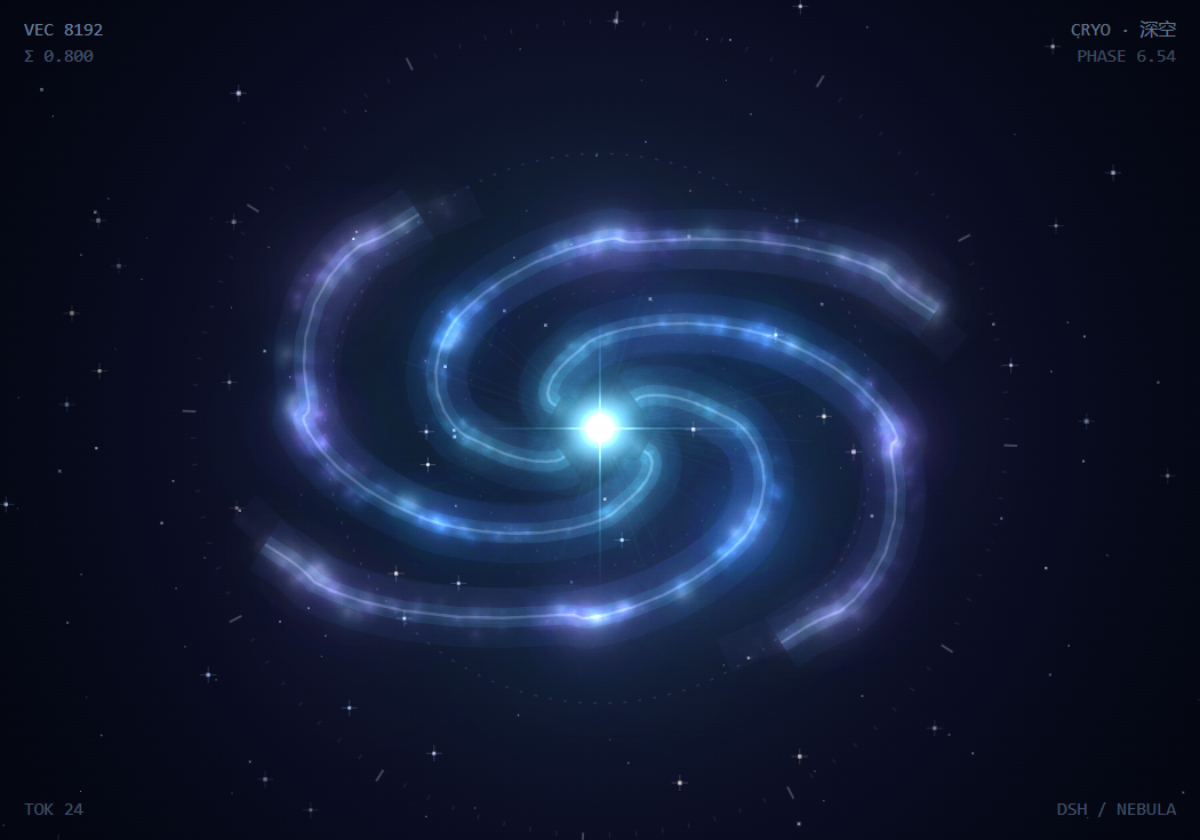
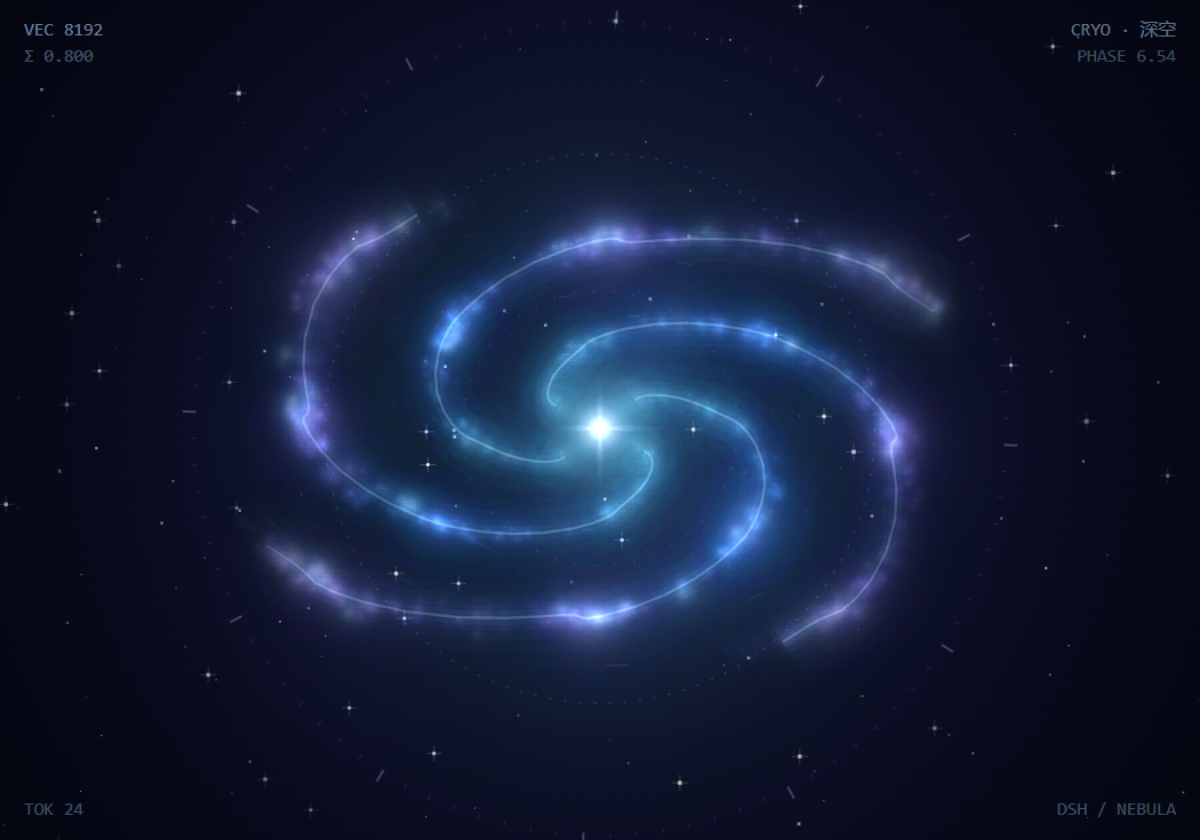
fix: soften the core light and the arm ribbons
The centre was a disc blown out to white with four straight diffraction
spikes reaching across the frame, and the arms were flat equal-width
strokes that ended in a clean cut at the rim; several beams assembling
geometric blocks was exactly what it looked like up close.

- core: wide dim halo + small nucleus, four flares as tapering diamonds
  whose gradient starts at zero, every layer under the additive clipping
  threshold (blown-out white pixels 958 -> 314)
- arms: one 30 px stroke became a 52/34/23/13/7 px stack, each with a
  radial fade, so the cross section has a gradient and the tips fade
- striations: the 64 straight radial "profile rays" are gone; short arcs
  along a constant radius read as shear instead of spotlights

Same-frame brightness is within 2.5% (arm ring -4.6%, core -10%), and the
spin direction, winding angle (227 deg/radius) and 60 fps are unchanged.
Hero and social images repainted; 0.3.1.

Changed region(s): [[0.4625, 0.4643, 0.555, 0.5571], [0.74, 0.3405, 0.7708, 0.3714], [0.2158, 0.65, 0.2467, 0.681]]

diff --git a/src/client/NebulaCanvas.tsx b/src/client/NebulaCanvas.tsx
@@ -342,10 +342,24 @@ export function NebulaCanvas({ face, point, settings, playing }: NebulaCanvasPro
         ctx.drawImage(sprites.get(scheme.arms[cloud.tint % 4]!), x - size / 2, y - size / 2, size, size)
       }
 
-      // Continuous spiral spines give the arms a readable shape.
-      ctx.globalAlpha = 1
+      // Continuous spiral spines give the arms a readable shape. Each layer is
+      // stroked while the colour itself carries a radial alpha ramp: the band
+      // fades out where the arm leaves the disc, so a wide stroke never ends in
+      // a flat cut (at 30 px wide that read as a ribbon sheared off with
+      // scissors). Several widths with rising alpha replace one flat ribbon,
+      // which gives the cross section a gradient instead of two hard edges.
+      const radialFade = (color: string): CanvasGradient => {
+        const gradient = ctx.createRadialGradient(cx, cy, radius * 0.02, cx, cy, radius * 1.04)
+        gradient.addColorStop(0, hexToRgba(color, 0))
+        gradient.addColorStop(0.16, hexToRgba(color, 1))
+        gradient.addColorStop(0.8, hexToRgba(color, 0.88))
+        gradient.addColorStop(1, hexToRgba(color, 0))
+        return gradient
+      }
+      const spineFade = [radialFade(scheme.arms[1]!), radialFade(scheme.accent), radialFade(scheme.core)]
+      ctx.lineJoin = 'round'
       for (let arm = 0; arm < 4; arm++) {
-        ctx.beginPath()
+        const spine = new Path2D()
         for (let step = 0; step <= 44; step++) {
           const t = 0.09 + (step / 44) * 0.91
           const pv = profile[Math.min(255, Math.floor(t * 255))]!
@@ -353,21 +367,22 @@ export function NebulaCanvas({ face, point, settings, playing }: NebulaCanvasPro
           const r = radius * (0.06 + t * 1.02) * (0.92 + pv * 0.16)
           const x = cx + Math.cos(theta) * r
           const y = cy + Math.sin(theta) * r * PERSPECTIVE
-          if (step === 0) ctx.moveTo(x, y)
-          else ctx.lineTo(x, y)
+          if (step === 0) spine.moveTo(x, y)
+          else spine.lineTo(x, y)
         }
-        ctx.strokeStyle = hexToRgba(scheme.arms[1]!, 0.045)
-        ctx.lineWidth = 30
-        ctx.stroke()
-        ctx.strokeStyle = hexToRgba(scheme.accent, 0.075)
-        ctx.lineWidth = 10
-        ctx.stroke()
-        ctx.strokeStyle = hexToRgba(scheme.core, 0.14)
-        ctx.lineWidth = 1.4
-        ctx.stroke()
+        for (const [width, alpha, tone] of [[52, 0.007, 0], [34, 0.012, 0], [23, 0.017, 0], [13, 0.024, 0], [7, 0.032, 1]] as const) {
+          ctx.globalAlpha = alpha
+          ctx.lineWidth = width
+          ctx.strokeStyle = spineFade[tone]!
+          ctx.stroke(spine)
+        }
+        ctx.globalAlpha = 0.16
+        ctx.lineWidth = 1.25
+        ctx.strokeStyle = spineFade[2]!
+        ctx.stroke(spine)
 
-        // A parallel, softer lane widens the arm.
-        ctx.beginPath()
+        // A parallel, softer lane widens the arm on one side.
+        const lane = new Path2D()
         for (let step = 0; step <= 36; step++) {
           const t = 0.12 + (step / 36) * 0.88
           const pv = profile[Math.min(255, Math.floor(t * 255))]!
@@ -375,12 +390,15 @@ export function NebulaCanvas({ face, point, settings, playing }: NebulaCanvasPro
           const r = radius * (0.06 + t * 1.02) * (0.92 + pv * 0.16) * 0.99
           const x = cx + Math.cos(theta) * r
           const y = cy + Math.sin(theta) * r * PERSPECTIVE
-          if (step === 0) ctx.moveTo(x, y)
-          else ctx.lineTo(x, y)
+          if (step === 0) lane.moveTo(x, y)
+          else lane.lineTo(x, y)
         }
-        ctx.strokeStyle = hexToRgba(scheme.arms[2]!, 0.032)
-        ctx.lineWidth = 18
-        ctx.stroke()
+        for (const [width, alpha] of [[20, 0.012], [11, 0.018]] as const) {
+          ctx.globalAlpha = alpha
+          ctx.lineWidth = width
+          ctx.strokeStyle = spineFade[0]!
+          ctx.stroke(lane)
+        }
       }
 
       // Soft band stamps: a continuous nebular body under the sparkle.
@@ -526,50 +544,74 @@ export function NebulaCanvas({ face, point, settings, playing }: NebulaCanvasPro
         ctx.drawImage(sprites.get(scheme.core), hx - head / 2, hy - head / 2, head, head)
       }
 
-      // Profile rays, kept faint so the core stays clean. The core shears ahead
-      // of the pattern (same sign, higher rate): inner material turns fastest.
-      const rayCount = Math.floor(64 * density)
-      for (let i = 0; i < rayCount; i++) {
+      // The old pass here drew 64 straight radial rays. They read as hard beams
+      // fanning out of the star, which fought the soft light, so the disc now
+      // gets its texture from the sheared wisps below: short arcs that follow
+      // the flow at a constant radius, never a straight line pointing at the core.
+      ctx.globalAlpha = 1
+      const wispCount = Math.floor(52 * density)
+      for (let i = 0; i < wispCount; i++) {
         const pv = profile[(i * 11) % 256]!
-        if (pv < 0.18) continue
-        const theta = angle * 1.12 + (i / 64) * TAU
-        const inner = radius * 0.12
-        const outer = inner + radius * (0.1 + pv * 0.5)
+        if (pv < 0.24) continue
+        const theta0 = angle * 1.12 + (i / wispCount) * TAU
+        const r = radius * (0.18 + ((i * 29) % 97) / 97 * 0.8) * (0.94 + pv * 0.1)
+        const span = 0.03 + pv * 0.05
         ctx.beginPath()
-        ctx.moveTo(cx + Math.cos(theta) * inner, cy + Math.sin(theta) * inner * PERSPECTIVE)
-        ctx.lineTo(cx + Math.cos(theta) * outer, cy + Math.sin(theta) * outer * PERSPECTIVE)
-        ctx.strokeStyle = hexToRgba(scheme.arms[(i + 1) % 4]!, 0.02 + pv * 0.055)
-        ctx.lineWidth = 0.5 + pv * 0.6
+        for (let step = 0; step <= 3; step++) {
+          const theta = theta0 + (step / 3) * span
+          const x = cx + Math.cos(theta) * r
+          const y = cy + Math.sin(theta) * r * PERSPECTIVE
+          if (step === 0) ctx.moveTo(x, y)
+          else ctx.lineTo(x, y)
+        }
+        ctx.strokeStyle = hexToRgba(scheme.arms[(i + 1) % 4]!, 0.03 + pv * 0.05)
+        ctx.lineWidth = 0.5 + pv * 0.7
         ctx.stroke()
       }
 
-      // Chromatic core, short diffraction spikes, and a soft lens halo.
+      // Chromatic core: a wide dim halo, a small bright nucleus, and a four point
+      // flare whose gradient starts at zero. Every layer stays under the additive
+      // clipping threshold, so the centre reads as light with no visible rim —
+      // the white disc that used to sit there was the clipping contour itself.
       const coreSize = (10 + magnitude * 8) * (1 + Math.sin(now * 0.002) * 0.04) * (0.9 + enter * 0.1)
-      ctx.globalAlpha = 0.5
-      ctx.drawImage(sprites.get(scheme.accent), cx - coreSize * 3.4, cy - coreSize * 3.4, coreSize * 6.8, coreSize * 6.8)
-      ctx.globalAlpha = 0.95
-      ctx.drawImage(sprites.get(scheme.core), cx - coreSize * 1.6, cy - coreSize * 1.6, coreSize * 3.2, coreSize * 3.2)
+      ctx.globalAlpha = 0.3
+      ctx.drawImage(sprites.get(scheme.accent), cx - coreSize * 4.8, cy - coreSize * 4.8, coreSize * 9.6, coreSize * 9.6)
+      ctx.globalAlpha = 0.2
+      ctx.drawImage(sprites.get(scheme.core), cx - coreSize * 2.7, cy - coreSize * 2.7, coreSize * 5.4, coreSize * 5.4)
+      ctx.globalAlpha = 0.58
+      ctx.drawImage(sprites.get(scheme.core), cx - coreSize * 1.05, cy - coreSize * 1.05, coreSize * 2.1, coreSize * 2.1)
 
+      // Flares are tapered diamonds, not rectangles: the silhouette itself thins
+      // toward the tip, so nothing reads as a straight beam.
       ctx.save()
       ctx.translate(cx, cy)
       for (let spike = 0; spike < 4; spike++) {
-        const reach = coreSize * (spike < 2 ? 5.2 : 3.6)
+        const reach = coreSize * (spike < 2 ? 2.5 : 1.8)
+        const waist = coreSize * 0.1
         ctx.save()
         ctx.rotate((spike * Math.PI) / 2)
-        const glow = ctx.createLinearGradient(0, 0, reach, 0)
-        glow.addColorStop(0, hexToRgba(scheme.core, 0.5))
-        glow.addColorStop(0.35, hexToRgba(scheme.accent, 0.18))
-        glow.addColorStop(1, hexToRgba(scheme.accent, 0))
-        ctx.fillStyle = glow
-        ctx.fillRect(0, -0.5, reach, 1)
+        const flare = ctx.createLinearGradient(0, 0, reach, 0)
+        flare.addColorStop(0, hexToRgba(scheme.core, 0.3))
+        flare.addColorStop(0.3, hexToRgba(scheme.core, 0.14))
+        flare.addColorStop(0.7, hexToRgba(scheme.accent, 0.04))
+        flare.addColorStop(1, hexToRgba(scheme.accent, 0))
+        ctx.fillStyle = flare
+        ctx.beginPath()
+        ctx.moveTo(0, 0)
+        ctx.lineTo(reach * 0.34, -waist)
+        ctx.lineTo(reach, 0)
+        ctx.lineTo(reach * 0.34, waist)
+        ctx.closePath()
+        ctx.fill()
         ctx.restore()
       }
       ctx.restore()
 
+      // One white pinprick keeps the star sharp after the halo is softened.
       ctx.globalAlpha = 1
       ctx.fillStyle = '#ffffff'
       ctx.beginPath()
-      ctx.arc(cx, cy, Math.max(1.2, coreSize * 0.13), 0, TAU)
+      ctx.arc(cx, cy, Math.max(1, coreSize * 0.075), 0, TAU)
       ctx.fill()
 
       // HUD orbit: no solid circle, just ticks and two dashed rings.

diff --git a/lib/client.js b/lib/client.js
@@ -1344,9 +1344,18 @@ function NebulaCanvas({ face, point, settings, playing }) {
         ctx.globalAlpha = cloud.alpha * (0.45 + pv * 0.9) * (0.5 + enter * 0.5);
         ctx.drawImage(sprites.get(scheme.arms[cloud.tint % 4]), x - size / 2, y - size / 2, size, size);
       }
-      ctx.globalAlpha = 1;
+      const radialFade = (color) => {
+        const gradient = ctx.createRadialGradient(cx, cy, radius * 0.02, cx, cy, radius * 1.04);
+        gradient.addColorStop(0, hexToRgba(color, 0));
+        gradient.addColorStop(0.16, hexToRgba(color, 1));
+        gradient.addColorStop(0.8, hexToRgba(color, 0.88));
+        gradient.addColorStop(1, hexToRgba(color, 0));
+        return gradient;
+      };
+      const spineFade = [radialFade(scheme.arms[1]), radialFade(scheme.accent), radialFade(scheme.core)];
+      ctx.lineJoin = "round";
       for (let arm = 0; arm < 4; arm++) {
-        ctx.beginPath();
+        const spine = new Path2D();
         for (let step = 0; step <= 44; step++) {
           const t = 0.09 + step / 44 * 0.91;
           const pv = profile[Math.min(255, Math.floor(t * 255))];
@@ -1354,19 +1363,20 @@ function NebulaCanvas({ face, point, settings, playing }) {
           const r = radius * (0.06 + t * 1.02) * (0.92 + pv * 0.16);
           const x = cx + Math.cos(theta) * r;
           const y = cy + Math.sin(theta) * r * PERSPECTIVE;
-          if (step === 0) ctx.moveTo(x, y);
-          else ctx.lineTo(x, y);
+          if (step === 0) spine.moveTo(x, y);
+          else spine.lineTo(x, y);
         }
-        ctx.strokeStyle = hexToRgba(scheme.arms[1], 0.045);
-        ctx.lineWidth = 30;
-        ctx.stroke();
-        ctx.strokeStyle = hexToRgba(scheme.accent, 0.075);
-        ctx.lineWidth = 10;
-        ctx.stroke();
-        ctx.strokeStyle = hexToRgba(scheme.core, 0.14);
-        ctx.lineWidth = 1.4;
-        ctx.stroke();
-        ctx.beginPath();
+        for (const [width2, alpha, tone] of [[52, 7e-3, 0], [34, 0.012, 0], [23, 0.017, 0], [13, 0.024, 0], [7, 0.032, 1]]) {
+          ctx.globalAlpha = alpha;
+          ctx.lineWidth = width2;
+          ctx.strokeStyle = spineFade[tone];
+          ctx.stroke(spine);
+        }
+        ctx.globalAlpha = 0.16;
+        ctx.lineWidth = 1.25;
+        ctx.strokeStyle = spineFade[2];
+        ctx.stroke(spine);
+        const lane = new Path2D();
         for (let step = 0; step <= 36; step++) {
           const t = 0.12 + step / 36 * 0.88;
           const pv = profile[Math.min(255, Math.floor(t * 255))];
@@ -1374,12 +1384,15 @@ function NebulaCanvas({ face, point, settings, playing }) {
           const r = radius * (0.06 + t * 1.02) * (0.92 + pv * 0.16) * 0.99;
           const x = cx + Math.cos(theta) * r;
           const y = cy + Math.sin(theta) * r * PERSPECTIVE;
-          if (step === 0) ctx.moveTo(x, y);
-          else ctx.lineTo(x, y);
+          if (step === 0) lane.moveTo(x, y);
+          else lane.lineTo(x, y);
         }
-        ctx.strokeStyle = hexToRgba(scheme.arms[2], 0.032);
-        ctx.lineWidth = 18;
-        ctx.stroke();
+        for (const [width2, alpha] of [[20, 0.012], [11, 0.018]]) {
+          ctx.globalAlpha = alpha;
+          ctx.lineWidth = width2;
+          ctx.strokeStyle = spineFade[0];
+          ctx.stroke(lane);
+        }
       }
       for (let arm = 0; arm < 4; arm++) {
         for (let step = 0; step <= 80; step++) {
@@ -1507,44 +1520,60 @@ function NebulaCanvas({ face, point, settings, playing }) {
         const head = 7;
         ctx.drawImage(sprites.get(scheme.core), hx - head / 2, hy - head / 2, head, head);
       }
-      const rayCount = Math.floor(64 * density);
-      for (let i = 0; i < rayCount; i++) {
+      ctx.globalAlpha = 1;
+      const wispCount = Math.floor(52 * density);
+      for (let i = 0; i < wispCount; i++) {
         const pv = profile[i * 11 % 256];
-        if (pv < 0.18) continue;
-        const theta = angle * 1.12 + i / 64 * TAU;
-        const inner = radius * 0.12;
-        const outer = inner + radius * (0.1 + pv * 0.5);
+        if (pv < 0.24) continue;
+        const theta0 = angle * 1.12 + i / wispCount * TAU;
+        const r = radius * (0.18 + i * 29 % 97 / 97 * 0.8) * (0.94 + pv * 0.1);
+        const span = 0.03 + pv * 0.05;
         ctx.beginPath();
-        ctx.moveTo(cx + Math.cos(theta) * inner, cy + Math.sin(theta) * inner * PERSPECTIVE);
-        ctx.lineTo(cx + Math.cos(theta) * outer, cy + Math.sin(theta) * outer * PERSPECTIVE);
-        ctx.strokeStyle = hexToRgba(scheme.arms[(i + 1) % 4], 0.02 + pv * 0.055);
-        ctx.lineWidth = 0.5 + pv * 0.6;
+        for (let step = 0; step <= 3; step++) {
+          const theta = theta0 + step / 3 * span;
+          const x = cx + Math.cos(theta) * r;
+          const y = cy + Math.sin(theta) * r * PERSPECTIVE;
+          if (step === 0) ctx.moveTo(x, y);
+          else ctx.lineTo(x, y);
+        }
+        ctx.strokeStyle = hexToRgba(scheme.arms[(i + 1) % 4], 0.03 + pv * 0.05);
+        ctx.lineWidth = 0.5 + pv * 0.7;
         ctx.stroke();
       }
       const coreSize = (10 + magnitude * 8) * (1 + Math.sin(now * 2e-3) * 0.04) * (0.9 + enter * 0.1);
-      ctx.globalAlpha = 0.5;
-      ctx.drawImage(sprites.get(scheme.accent), cx - coreSize * 3.4, cy - coreSize * 3.4, coreSize * 6.8, coreSize * 6.8);
-      ctx.globalAlpha = 0.95;
-      ctx.drawImage(sprites.get(scheme.core), cx - coreSize * 1.6, cy - coreSize * 1.6, coreSize * 3.2, coreSize * 3.2);
+      ctx.globalAlpha = 0.3;
+      ctx.drawImage(sprites.get(scheme.accent), cx - coreSize * 4.8, cy - coreSize * 4.8, coreSize * 9.6, coreSize * 9.6);
+      ctx.globalAlpha = 0.2;
+      ctx.drawImage(sprites.get(scheme.core), cx - coreSize * 2.7, cy - coreSize * 2.7, coreSize * 5.4, coreSize * 5.4);
+      ctx.globalAlpha = 0.58;
+      ctx.drawImage(sprites.get(scheme.core), cx - coreSize * 1.05, cy - coreSize * 1.05, coreSize * 2.1, coreSize * 2.1);
       ctx.save();
       ctx.translate(cx, cy);
       for (let spike = 0; spike < 4; spike++) {
-        const reach = coreSize * (spike < 2 ? 5.2 : 3.6);
+        const reach = coreSize * (spike < 2 ? 2.5 : 1.8);
+        const waist = coreSize * 0.1;
         ctx.save();
         ctx.rotate(spike * Math.PI / 2);
-        const glow = ctx.createLinearGradient(0, 0, reach, 0);
-        glow.addColorStop(0, hexToRgba(scheme.core, 0.5));
-        glow.addColorStop(0.35, hexToRgba(scheme.accent, 0.18));
-        glow.addColorStop(1, hexToRgba(scheme.accent, 0));
-        ctx.fillStyle = glow;
-        ctx.fillRect(0, -0.5, reach, 1);
+        const flare = ctx.createLinearGradient(0, 0, reach, 0);
+        flare.addColorStop(0, hexToRgba(scheme.core, 0.3));
+        flare.addColorStop(0.3, hexToRgba(scheme.core, 0.14));
+        flare.addColorStop(0.7, hexToRgba(scheme.accent, 0.04));
+        flare.addColorStop(1, hexToRgba(scheme.accent, 0));
+        ctx.fillStyle = flare;
+        ctx.beginPath();
+        ctx.moveTo(0, 0);
+        ctx.lineTo(reach * 0.34, -waist);
+        ctx.lineTo(reach, 0);
+        ctx.lineTo(reach * 0.34, waist);
+        ctx.closePath();
+        ctx.fill();
         ctx.restore();
       }
       ctx.restore();
       ctx.globalAlpha = 1;
       ctx.fillStyle = "#ffffff";
       ctx.beginPath();
-      ctx.arc(cx, cy, Math.max(1.2, coreSize * 0.13), 0, TAU);
+      ctx.arc(cx, cy, Math.max(1, coreSize * 0.075), 0, TAU);
       ctx.fill();
       ctx.globalAlpha = 1;
       ctx.setLineDash([1.5, 6]);

diff --git a/README.en.md b/README.en.md
@@ -55,6 +55,7 @@ Atmosphere details (all part of the optional "feel" layer; none of them feed any
 - **Breathing** — the whole disc scales ±1.6% on a ~30 s cycle, so a still frame never reads as a wallpaper.
 - **Outward beads** — one faint bead per arm drifts outward while riding the pattern, reading as star formation in a density wave; its direction always matches the spin.
 - **Meteors** — roughly every 10 s a meteor crosses a corner of the frame: one gradient line plus one sprite.
+- **Soft core** — a wide dim halo plus a small nucleus, with the four flares shaped as diamonds that taper to a point; every layer stays under the additive clipping threshold, so the centre reads as one star instead of a hard white disc with a cross. The arms work the same way: several strokes from wide to narrow, each with a radial fade, so no ribbon is ever sheared off flat.
 - **Film grain** — a 128² noise tile composited with `overlay`; it adds texture to the dark areas and doubles as dithering against 8-bit banding.
 
 ## Appearance
@@ -68,7 +69,7 @@ Both canvases stay dark in either appearance: space is always dark outside the p
 The picture obeys the two basic constraints of a spiral galaxy, and no layer ever counter-rotates:
 
 - **Trailing arms** — the arms wind in the same direction the pattern spins (θ grows outward while `angle` increases monotonically), so the arms always trail the spin instead of reading as "spinning apart".
-- **Rigid pattern, differential material** — the density wave itself rotates rigidly at one angular velocity, while the inner rays run a little faster (`angle * 1.12`) and the outer motes a little slower (`angle * 0.25`): differential rotation, without winding the arms ever tighter.
+- **Rigid pattern, differential material** — the density wave itself rotates rigidly at one angular velocity, while the inner filaments run a little faster (`angle * 1.12`) and the outer motes a little slower (`angle * 0.25`): differential rotation, without winding the arms ever tighter.
 
 Earlier the `iris` / `ember` families flipped direction by `scheme.id`, pairing counter-clockwise spin with clockwise arms, and the angular velocity would jump whenever a roam crossed a frame (`mix` past 0.5) or the palette changed. Now `angle` is the single source of angular velocity: it accumulates monotonically, frame after frame, independent of the current palette.
 

diff --git a/README.md b/README.md
@@ -55,6 +55,7 @@ pnpm add /path/to/dsh-spiral
 - **呼吸**：整个星盘以约 30 秒的周期做 ±1.6% 的缩放，静止时画面不会像贴图。
 - **光点外移**：四条旋臂各有一颗微光点向外缓行，随图案一起旋转，读作密度波里的恒星形成，方向永远与自转一致。
 - **流星**：平均每 10 秒左右，一颗流星斜掠画面一角，只占一条渐变线 + 一个精灵。
+- **柔光核心**：中心是一团宽而暗的光晕加一枚亮核，四道光芒做成朝尖端收窄的菱形；每层都压在叠加合成的饱和阈值以下，所以读作一颗星，而不是一块边缘生硬的白盘加十字衍射。旋臂同理：从宽到窄叠几道带径向渐隐的描边，不再有被剪断的平直丝带。
 - **胶片颗粒**：一张 128² 噪声贴图以 `overlay` 合成，既给暗部一点质感，也顺手压掉 8 bit 渐变可能出现的色带。
 
 ## 外观
@@ -68,7 +69,7 @@ pnpm add /path/to/dsh-spiral
 画面遵循旋涡星系的两条基本约束，任何图层都不会反向自转：
 
 - **拖尾旋臂**：旋臂的缠绕方向与自转方向一致（越往外 `theta` 越大、`angle` 单调递增），所以臂始终拖在旋转后面，不会读成「边转边散开」。
-- **刚性图案 + 差速物质**：作为密度波的整体图案以同一角速度刚性旋转；内核射线略快（`angle * 1.12`）、外圈浮尘略慢（`angle * 0.25`），体现「内快外慢」的差速旋转，又不会把旋臂越缠越紧。
+- **刚性图案 + 差速物质**：作为密度波的整体图案以同一角速度刚性旋转；内圈细丝略快（`angle * 1.12`）、外圈浮尘略慢（`angle * 0.25`），体现「内快外慢」的差速旋转，又不会把旋臂越缠越紧。
 
 此前 `iris` / `ember` 两个族按 `scheme.id` 翻转方向、以逆时针自转与顺时针缠绕的旋臂对冲，而且漫游跨帧（`mix` 过 0.5）与切换配色时会瞬间反转角速度；现在 `angle` 是唯一的角速度来源，逐帧单调累加，方向不再依赖当前配色。
 
